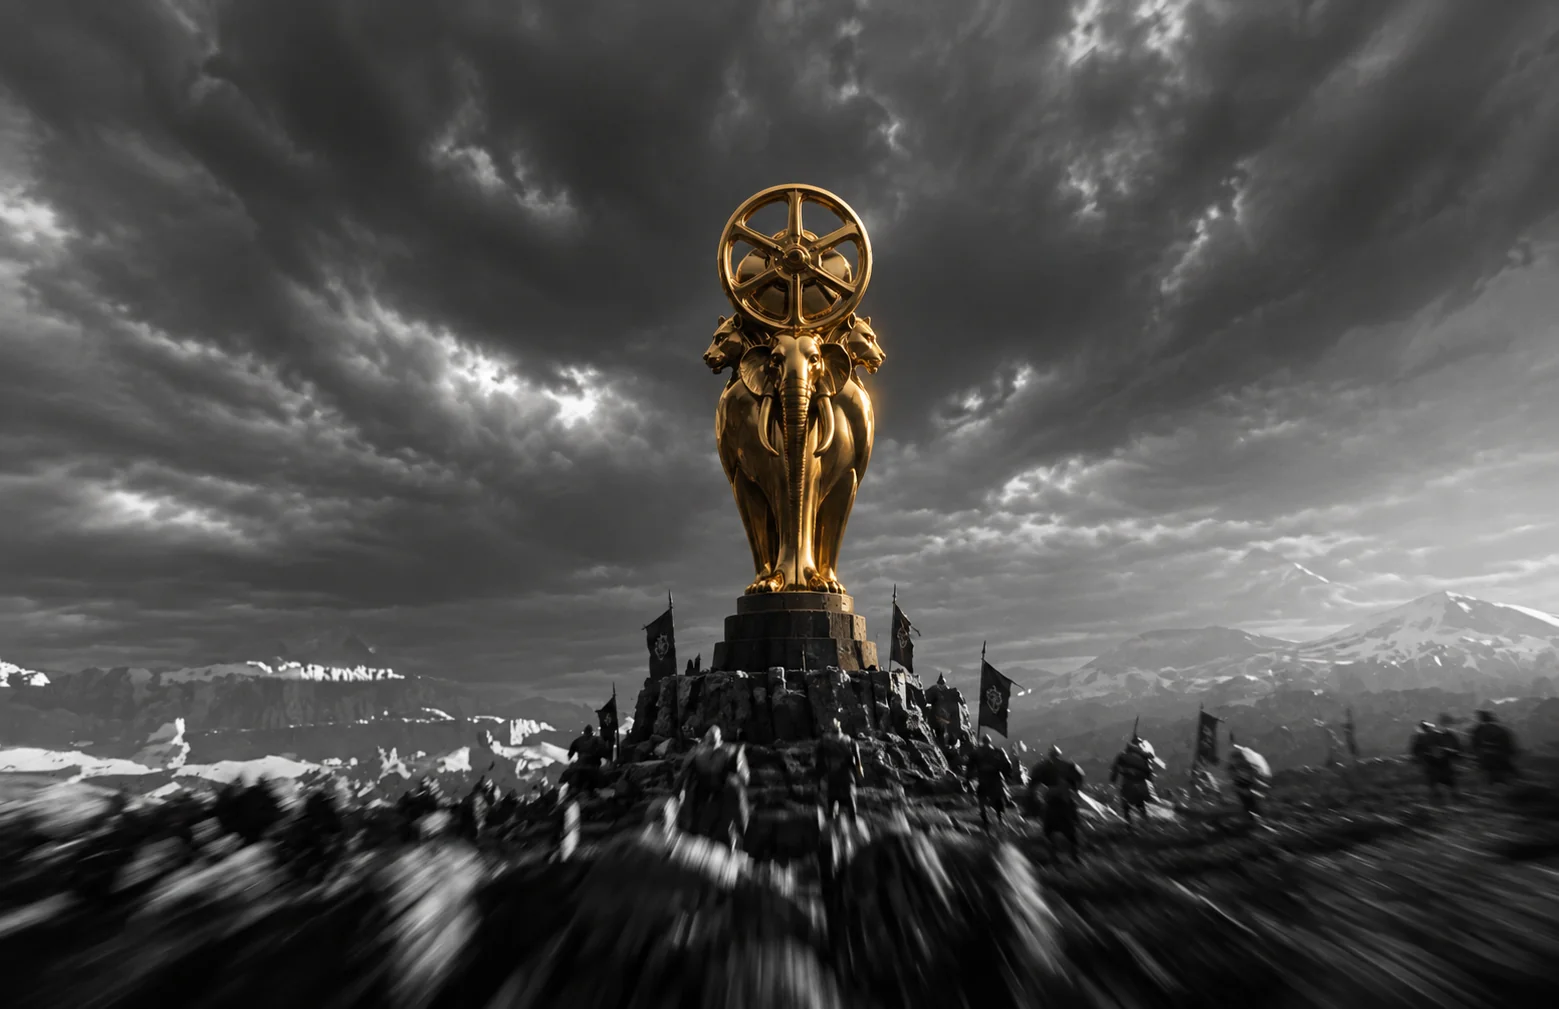
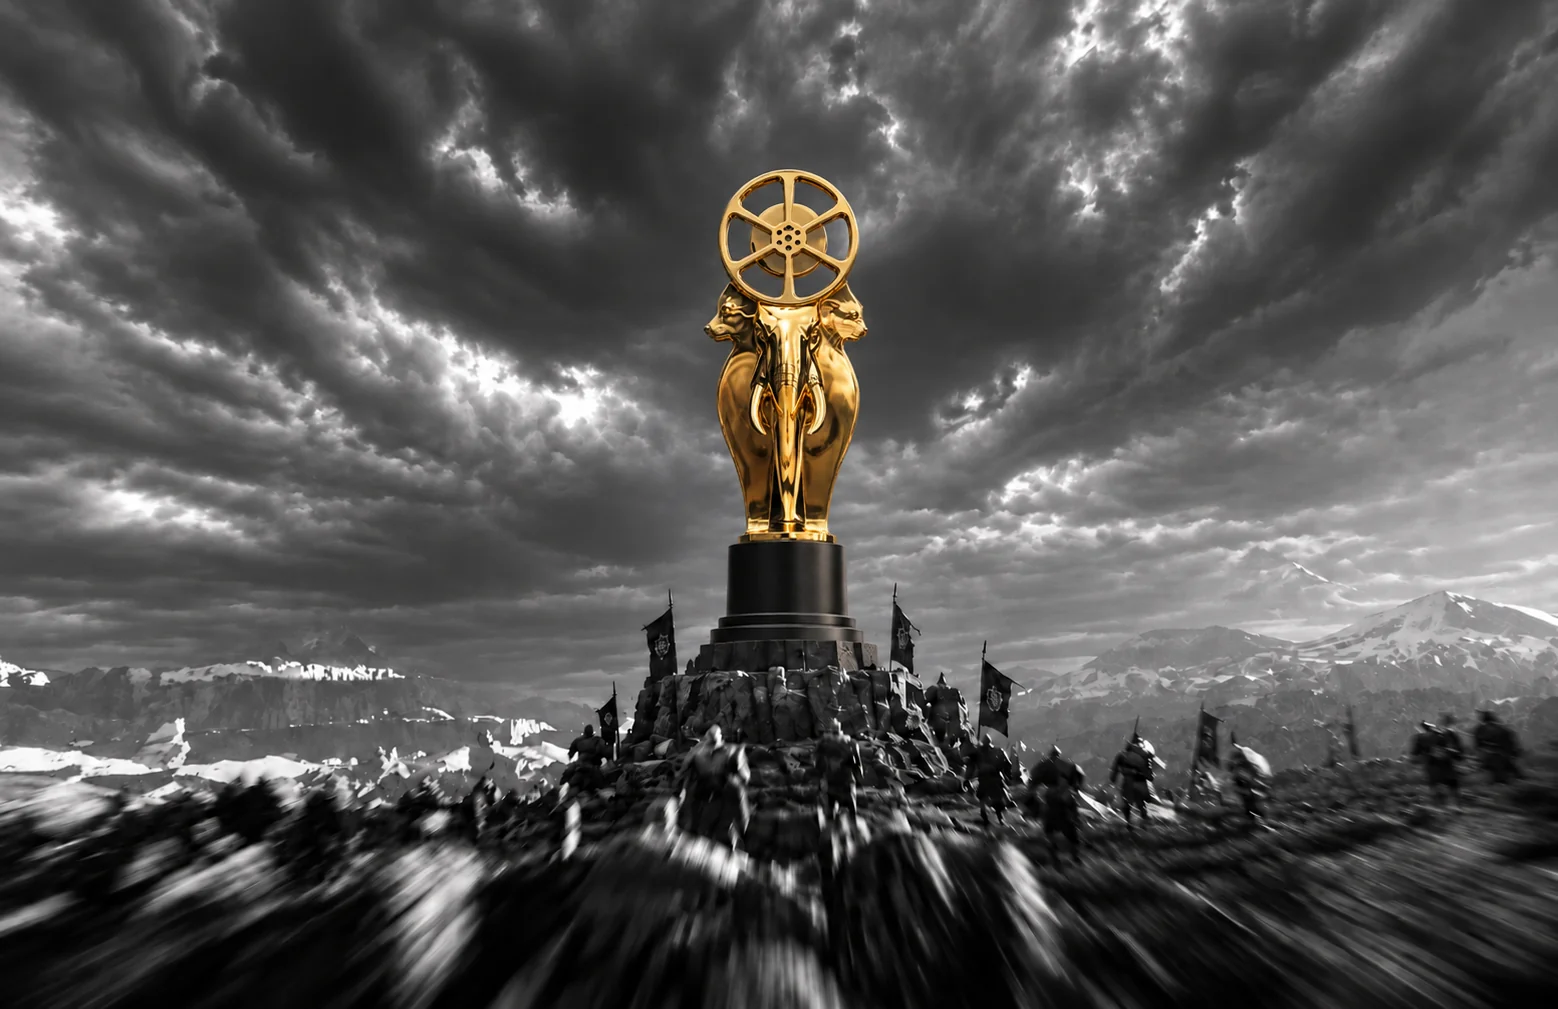
v1.327: A new trophy for the marquee, and a screens audit

diff --git a/assets/chrome.css b/assets/chrome.css
@@ -17,10 +17,13 @@
    ====================================================================== */
 
 /* ---------- announcement bar ---------- */
-.announce{position:fixed;left:0;right:0;top:0;z-index:60;min-height:34px;background:var(--deep,#0a0a0a);color:#fff;display:flex;align-items:center;justify-content:center;padding:0 48px;font-size:11px;letter-spacing:.12em;text-transform:uppercase}
+/* Paper like everything else since 15 Sep 2026 (the owner's no-black rule
+   covers bars too); the hairline under it keeps it a strip rather than a
+   blank margin. */
+.announce{position:fixed;left:0;right:0;top:0;z-index:60;min-height:34px;background:#fff;border-bottom:1px solid var(--line,#e4e2df);color:#111;display:flex;align-items:center;justify-content:center;padding:0 48px;font-size:11px;letter-spacing:.12em;text-transform:uppercase}
 .announce p{margin:0;text-align:center}
-.announce button{position:absolute;right:20px;top:50%;transform:translateY(-50%);background:none;border:none;color:rgba(255,255,255,.6);cursor:pointer;font-size:12px;line-height:1;padding:4px;transition:color .25s}
-.announce button:hover{color:#fff}
+.announce button{position:absolute;right:20px;top:50%;transform:translateY(-50%);background:none;border:none;color:rgba(17,17,17,.55);cursor:pointer;font-size:12px;line-height:1;padding:4px;transition:color .25s}
+.announce button:hover{color:#111}
 /* The bar is the one piece of chrome that is ink rather than paper, so the
    ink selection every page sets would be invisible on it. */
 .announce ::selection,.announce::selection{background:#fff;color:var(--deep,#0a0a0a)}

diff --git a/achievements.html b/achievements.html
@@ -186,7 +186,8 @@ input,button{font-family:inherit;font-size:inherit;color:inherit}
 /* ---------- legs ---------- */
 .legs{padding:0 var(--gutter) var(--band)}
 .leg{margin-top:var(--band)}
-.leg__panel{background:var(--stone);color:var(--ink);padding:clamp(32px,4vw,64px);position:relative;overflow:hidden;isolation:isolate}
+.legs > .leg:first-child{margin-top:clamp(24px,3.5vw,44px)} /* the band-sized gap was cut for the tall heroes; with heroes compacted (15 Sep 2026) the first case starts where the eye lands */
+.leg__panel{background:var(--paper);border:1px solid var(--line);color:var(--ink);padding:clamp(32px,4vw,64px);position:relative;overflow:hidden;isolation:isolate}
 .leg__panel::before{content:"";position:absolute;inset:0;z-index:0;background:none}
 .leg__panel > *{position:relative;z-index:1}
 .leg__panel .eyebrow{color:rgba(17,17,17,.5)}

diff --git a/ask.html b/ask.html
@@ -139,7 +139,8 @@ input,button{font-family:inherit;font-size:inherit;color:inherit}
 /* ---------- legs ---------- */
 .legs{padding:0 var(--gutter) var(--band)}
 .leg{margin-top:var(--band)}
-.leg__panel{background:var(--stone);color:var(--ink);padding:clamp(32px,4vw,64px);position:relative;overflow:hidden;isolation:isolate}
+.legs > .leg:first-child{margin-top:clamp(24px,3.5vw,44px)} /* the band-sized gap was cut for the tall heroes; with heroes compacted (15 Sep 2026) the first case starts where the eye lands */
+.leg__panel{background:var(--paper);border:1px solid var(--line);color:var(--ink);padding:clamp(32px,4vw,64px);position:relative;overflow:hidden;isolation:isolate}
 .leg__panel::before{content:"";position:absolute;inset:0;z-index:0;background:none}
 .leg__panel > *{position:relative;z-index:1}
 .leg__panel .eyebrow{color:rgba(17,17,17,.5)}

diff --git a/careers.html b/careers.html
@@ -139,7 +139,8 @@ input,button{font-family:inherit;font-size:inherit;color:inherit}
 /* ---------- legs ---------- */
 .legs{padding:0 var(--gutter) var(--band)}
 .leg{margin-top:var(--band)}
-.leg__panel{background:var(--stone);color:var(--ink);padding:clamp(32px,4vw,64px);position:relative;overflow:hidden;isolation:isolate}
+.legs > .leg:first-child{margin-top:clamp(24px,3.5vw,44px)} /* the band-sized gap was cut for the tall heroes; with heroes compacted (15 Sep 2026) the first case starts where the eye lands */
+.leg__panel{background:var(--paper);border:1px solid var(--line);color:var(--ink);padding:clamp(32px,4vw,64px);position:relative;overflow:hidden;isolation:isolate}
 .leg__panel::before{content:"";position:absolute;inset:0;z-index:0;background:none}
 .leg__panel > *{position:relative;z-index:1}
 .leg__panel .eyebrow{color:rgba(17,17,17,.5)}

diff --git a/caregiver-card.html b/caregiver-card.html
@@ -182,7 +182,8 @@ input,button{font-family:inherit;font-size:inherit;color:inherit}
 /* ---------- legs ---------- */
 .legs{padding:0 var(--gutter) var(--band)}
 .leg{margin-top:var(--band)}
-.leg__panel{background:var(--stone);color:var(--ink);padding:clamp(32px,4vw,64px);position:relative;overflow:hidden;isolation:isolate}
+.legs > .leg:first-child{margin-top:clamp(24px,3.5vw,44px)} /* the band-sized gap was cut for the tall heroes; with heroes compacted (15 Sep 2026) the first case starts where the eye lands */
+.leg__panel{background:var(--paper);border:1px solid var(--line);color:var(--ink);padding:clamp(32px,4vw,64px);position:relative;overflow:hidden;isolation:isolate}
 .leg__panel::before{content:"";position:absolute;inset:0;z-index:0;background:none}
 .leg__panel > *{position:relative;z-index:1}
 .leg__panel .eyebrow{color:rgba(17,17,17,.5)}

diff --git a/donate.html b/donate.html
@@ -139,7 +139,8 @@ input,button{font-family:inherit;font-size:inherit;color:inherit}
 /* ---------- legs ---------- */
 .legs{padding:0 var(--gutter) var(--band)}
 .leg{margin-top:var(--band)}
-.leg__panel{background:var(--stone);color:var(--ink);padding:clamp(32px,4vw,64px);position:relative;overflow:hidden;isolation:isolate}
+.legs > .leg:first-child{margin-top:clamp(24px,3.5vw,44px)} /* the band-sized gap was cut for the tall heroes; with heroes compacted (15 Sep 2026) the first case starts where the eye lands */
+.leg__panel{background:var(--paper);border:1px solid var(--line);color:var(--ink);padding:clamp(32px,4vw,64px);position:relative;overflow:hidden;isolation:isolate}
 .leg__panel::before{content:"";position:absolute;inset:0;z-index:0;background:none}
 .leg__panel > *{position:relative;z-index:1}
 .leg__panel .eyebrow{color:rgba(17,17,17,.5)}

diff --git a/events.html b/events.html
@@ -175,7 +175,8 @@ input,button{font-family:inherit;font-size:inherit;color:inherit}
 /* ---------- legs ---------- */
 .legs{padding:0 var(--gutter) var(--band)}
 .leg{margin-top:var(--band)}
-.leg__panel{background:var(--stone);color:var(--ink);padding:clamp(32px,4vw,64px);position:relative;overflow:hidden;isolation:isolate}
+.legs > .leg:first-child{margin-top:clamp(24px,3.5vw,44px)} /* the band-sized gap was cut for the tall heroes; with heroes compacted (15 Sep 2026) the first case starts where the eye lands */
+.leg__panel{background:var(--paper);border:1px solid var(--line);color:var(--ink);padding:clamp(32px,4vw,64px);position:relative;overflow:hidden;isolation:isolate}
 .leg__panel::before{content:"";position:absolute;inset:0;z-index:0;background:none}
 .leg__panel > *{position:relative;z-index:1}
 .leg__panel .eyebrow{color:rgba(17,17,17,.5)}

diff --git a/founder.html b/founder.html
@@ -144,7 +144,8 @@ input,button{font-family:inherit;font-size:inherit;color:inherit}
 /* ---------- legs ---------- */
 .legs{padding:0 var(--gutter) var(--band)}
 .leg{margin-top:var(--band)}
-.leg__panel{background:var(--stone);color:var(--ink);padding:clamp(32px,4vw,64px);position:relative;overflow:hidden;isolation:isolate}
+.legs > .leg:first-child{margin-top:clamp(24px,3.5vw,44px)} /* the band-sized gap was cut for the tall heroes; with heroes compacted (15 Sep 2026) the first case starts where the eye lands */
+.leg__panel{background:var(--paper);border:1px solid var(--line);color:var(--ink);padding:clamp(32px,4vw,64px);position:relative;overflow:hidden;isolation:isolate}
 .leg__panel::before{content:"";position:absolute;inset:0;z-index:0;background:none}
 .leg__panel > *{position:relative;z-index:1}
 .leg__panel .eyebrow{color:rgba(17,17,17,.5)}

diff --git a/laws.html b/laws.html
@@ -142,7 +142,8 @@ input,button{font-family:inherit;font-size:inherit;color:inherit}
 /* ---------- legs ---------- */
 .legs{padding:0 var(--gutter) var(--band)}
 .leg{margin-top:var(--band)}
-.leg__panel{background:var(--stone);color:var(--ink);padding:clamp(32px,4vw,64px);position:relative;overflow:hidden;isolation:isolate}
+.legs > .leg:first-child{margin-top:clamp(24px,3.5vw,44px)} /* the band-sized gap was cut for the tall heroes; with heroes compacted (15 Sep 2026) the first case starts where the eye lands */
+.leg__panel{background:var(--paper);border:1px solid var(--line);color:var(--ink);padding:clamp(32px,4vw,64px);position:relative;overflow:hidden;isolation:isolate}
 .leg__panel::before{content:"";position:absolute;inset:0;z-index:0;background:none}
 .leg__panel > *{position:relative;z-index:1}
 .leg__panel .eyebrow{color:rgba(17,17,17,.5)}

diff --git a/newsroom.html b/newsroom.html
@@ -139,7 +139,8 @@ input,button{font-family:inherit;font-size:inherit;color:inherit}
 /* ---------- legs ---------- */
 .legs{padding:0 var(--gutter) var(--band)}
 .leg{margin-top:var(--band)}
-.leg__panel{background:var(--stone);color:var(--ink);padding:clamp(32px,4vw,64px);position:relative;overflow:hidden;isolation:isolate}
+.legs > .leg:first-child{margin-top:clamp(24px,3.5vw,44px)} /* the band-sized gap was cut for the tall heroes; with heroes compacted (15 Sep 2026) the first case starts where the eye lands */
+.leg__panel{background:var(--paper);border:1px solid var(--line);color:var(--ink);padding:clamp(32px,4vw,64px);position:relative;overflow:hidden;isolation:isolate}
 .leg__panel::before{content:"";position:absolute;inset:0;z-index:0;background:none}
 .leg__panel > *{position:relative;z-index:1}
 .leg__panel .eyebrow{color:rgba(17,17,17,.5)}

diff --git a/report.html b/report.html
@@ -139,7 +139,8 @@ input,button{font-family:inherit;font-size:inherit;color:inherit}
 /* ---------- legs ---------- */
 .legs{padding:0 var(--gutter) var(--band)}
 .leg{margin-top:var(--band)}
-.leg__panel{background:var(--stone);color:var(--ink);padding:clamp(32px,4vw,64px);position:relative;overflow:hidden;isolation:isolate}
+.legs > .leg:first-child{margin-top:clamp(24px,3.5vw,44px)} /* the band-sized gap was cut for the tall heroes; with heroes compacted (15 Sep 2026) the first case starts where the eye lands */
+.leg__panel{background:var(--paper);border:1px solid var(--line);color:var(--ink);padding:clamp(32px,4vw,64px);position:relative;overflow:hidden;isolation:isolate}
 .leg__panel::before{content:"";position:absolute;inset:0;z-index:0;background:none}
 .leg__panel > *{position:relative;z-index:1}
 .leg__panel .eyebrow{color:rgba(17,17,17,.5)}

diff --git a/search.html b/search.html
@@ -139,7 +139,8 @@ input,button{font-family:inherit;font-size:inherit;color:inherit}
 /* ---------- legs ---------- */
 .legs{padding:0 var(--gutter) var(--band)}
 .leg{margin-top:var(--band)}
-.leg__panel{background:var(--stone);color:var(--ink);padding:clamp(32px,4vw,64px);position:relative;overflow:hidden;isolation:isolate}
+.legs > .leg:first-child{margin-top:clamp(24px,3.5vw,44px)} /* the band-sized gap was cut for the tall heroes; with heroes compacted (15 Sep 2026) the first case starts where the eye lands */
+.leg__panel{background:var(--paper);border:1px solid var(--line);color:var(--ink);padding:clamp(32px,4vw,64px);position:relative;overflow:hidden;isolation:isolate}
 .leg__panel::before{content:"";position:absolute;inset:0;z-index:0;background:none}
 .leg__panel > *{position:relative;z-index:1}
 .leg__panel .eyebrow{color:rgba(17,17,17,.5)}
